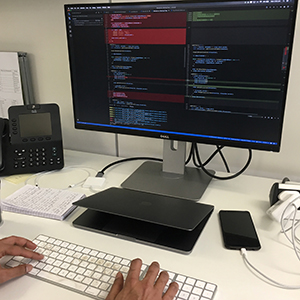
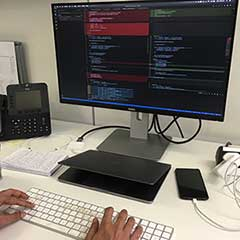
Smaller image files; fixes from Andrea.

diff --git a/src/assets/site-down/site-down.html b/src/assets/site-down/site-down.html
@@ -1,8 +1,7 @@
 <!DOCTYPE>
 <html>
   <head>
-    <base href="http://2020.ensembl.org/site-down/"/>
-    <link rel="stylesheet" type="text/css" href="site-down.css"/>
+    <link rel="stylesheet" type="text/css" href="site-down/site-down.css"/>
     <link href="https://fonts.googleapis.com/css?family=Lato" rel="stylesheet"> 
   </head>
   <body>
@@ -14,9 +13,9 @@
         </div>
         <div>
             <ul>
-              <li><img src="1.jpg"/></li>
-              <li><img src="2.jpg"/></li>
-              <li><img src="3.jpg"/></li>
+              <li><img src="site-down/1.jpg"/></li>
+              <li><img src="site-down/2.jpg"/></li>
+              <li><img src="site-down/3.jpg"/></li>
             </ul>
         </div>
         <div>

diff --git a/src/assets/site-down/site-down/site-down.css b/src/assets/site-down/site-down/site-down.css
@@ -74,13 +74,13 @@ ul {
   list-style: none;
   padding: 0;
   margin: 0 10%;
+  justify-content: center;
 }
 
 ul li {
-  width: 33%;
 }
 
 li img {
-  margin: 100px;
+  margin: 100px 20px;
 }
 
